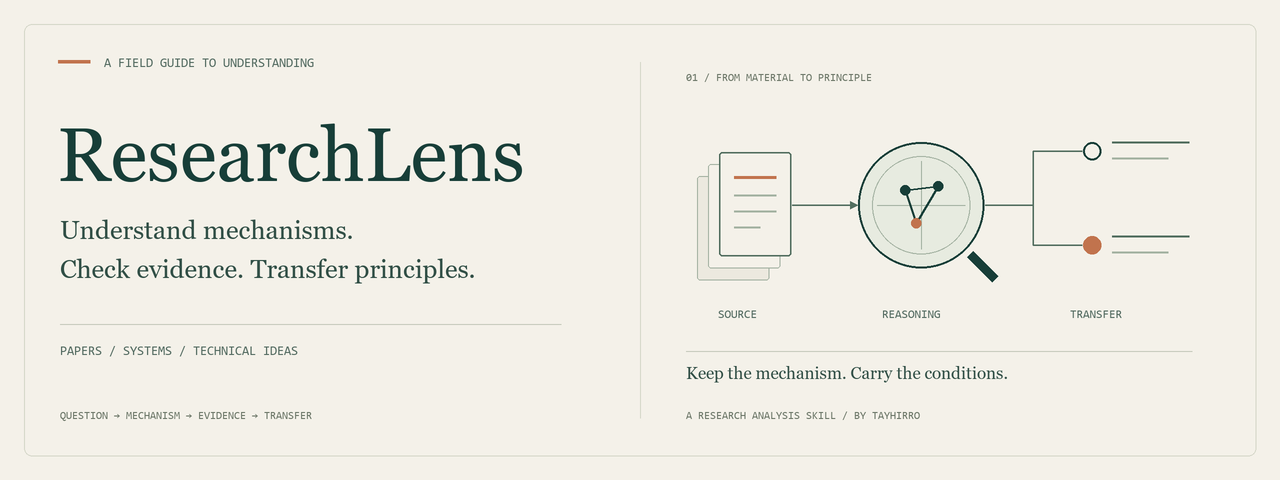
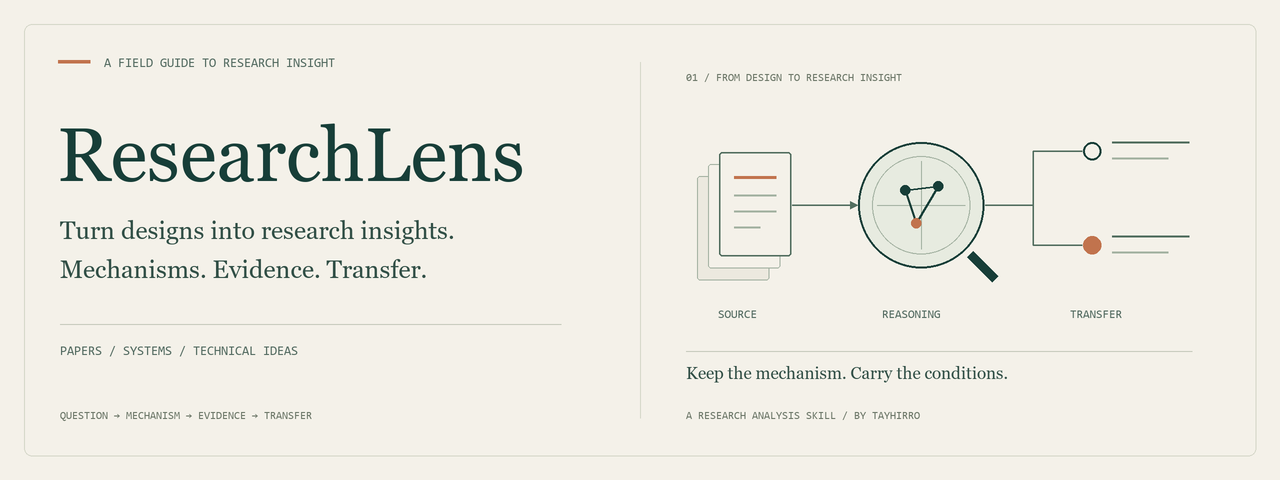
docs: sharpen ResearchLens messaging around design insights

diff --git a/README_EN.md b/README_EN.md
@@ -1,14 +1,14 @@
 <div align="center">
 
-<img src="assets/banner.png" alt="ResearchLens — Understand mechanisms. Check evidence. Transfer principles." width="100%">
+<img src="assets/banner.png" alt="ResearchLens — Turn designs into research insights. Mechanisms. Evidence. Transfer." width="100%">
 
 # ResearchLens
 
-### Understand mechanisms. Check evidence. Transfer principles.
+### Turn designs into research insights.
 
 A research analysis skill for papers, software systems, and technical proposals.
 
-[![Agent Skill](https://img.shields.io/badge/Agent_Skill-explore--skill-173e38?style=flat-square)](SKILL.md)
+[![Agent Skill](https://img.shields.io/badge/Agent_Skill-ResearchLens-173e38?style=flat-square)](SKILL.md)
 [![Analysis](https://img.shields.io/badge/Analysis-Mechanism_·_Evidence_·_Transfer-173e38?style=flat-square)](#what-you-get)
 [![中文](https://img.shields.io/badge/README-中文-c1734d?style=flat-square)](README.md)
 
@@ -18,13 +18,21 @@ A research analysis skill for papers, software systems, and technical proposals.
 
 ---
 
-Give ResearchLens a paper, an open-source system, or a technical proposal, together with a question. It helps explain **why the design works, what supports its claims, and which principles can carry into your own work**.
+When you read a paper or study an open-source system, you want to understand **why its design was chosen, what the contribution changes, and what you could learn for your own research**.
 
-Start with the source's structure, examine important decisions, investigate supporting and conflicting evidence where needed, and turn the findings into reusable research notes.
+ResearchLens examines the assumptions and alternatives behind concrete decisions, traces the causal mechanisms of important contributions, and checks the reasoning against literature, experimental results, and counterexamples. When transfer matters, it extracts reusable principles, required conditions, and questions that still need testing.
 
 > **Question → Mechanism → Evidence → Boundaries → Transfer**
 
-**ResearchLens** is the display name. The installation directory and skill identifier remain `explore-skill`.
+## What makes the approach useful
+
+**Reconstruct the reasons behind a design.** Work from assumptions and constraints, consider alternatives, and examine whether the choice follows from the problem, available data, compute, or engineering conventions.
+
+**Trace each important contribution.** Connect the original difficulty to the change, the mechanism, the evidence, and the failure conditions. Each contribution gets an explanation you can inspect and question.
+
+**Ground connections across fields.** Map a mechanism to relevant concepts, investigate the literature, and distinguish direct support from synthesis. Carry the conditions and limits with each mapping.
+
+**Deepen the questions that matter to your work.** Follow consequential evidence gaps, clarify mechanisms and counterexamples, and retain reusable principles alongside hypotheses that still need verification.
 
 ## What you get
 
@@ -38,7 +46,7 @@ Start with the source's structure, examine important decisions, investigate supp
 
 Final notes follow your questions. Subproblem files retain the sources and investigation history.
 
-## A worked explanation
+## A design you can learn a principle from
 
 Consider this skill's rule that the lead agent decides which follow-up questions to investigate:
 
@@ -49,6 +57,8 @@ Consider this skill's rule that the lead agent decides which follow-up questions
 | **Evidence** | The protocol directly documents this design intention; its effectiveness needs task-level evaluation |
 | **Limits** | Separate context does not automatically provide independent evidence; the lead can misjudge priorities |
 | **Transfer** | The pattern can inform document review or technical selection when subquestions and judgment criteria are clear |
+
+The transferable principle is: **give local investigation room to discover, while keeping further investment tied to the overall goal**. In document review or technical selection, retain this relationship and check the task boundaries and the coordinator's judgment.
 
 This is an editorial explanation of the repository's rules, not a recorded skill run or performance evaluation. See the [source-backed example note](docs/example-analysis.md).
 
@@ -113,7 +123,7 @@ ResearchLens focuses on **understanding existing work, assessing evidence, and t
 | [ARIS](https://github.com/wanshuiyin/Auto-claude-code-research-in-sleep) | Cross-model review and research/experiment improvement loops | Lead-managed peer investigations, selective deepening, and synthesis |
 | [Autoresearch](https://github.com/karpathy/autoresearch) | Experimental feedback and keep/discard optimization | Evidence-calibrated research judgments |
 
-Mechanism analysis, verification, and multiple agents also appear in related tools. The positioning here comes from the combination of question-led analysis, per-unit investigation, object-specific adaptation, and bounded transfer. This is a protocol comparison, not a performance ranking. See the [comparison notes](docs/positioning.md).
+ResearchLens connects **design reasoning, causal mechanisms, academic evidence, and transfer conditions** in an analysis you can trace back to its sources. The findings can inform research directions, technical choices, and questions for later experiments. See the [comparison notes](docs/positioning.md) for the public-protocol comparison; it does not rank performance.
 
 ## How it works
 

diff --git a/README.md b/README.md
@@ -1,14 +1,14 @@
 <div align="center">
 
-<img src="assets/banner.png" alt="ResearchLens — Understand mechanisms. Check evidence. Transfer principles." width="100%">
+<img src="assets/banner.png" alt="ResearchLens — Turn designs into research insights. Mechanisms. Evidence. Transfer." width="100%">
 
 # ResearchLens
 
-### 读懂机制，查证依据，提炼可迁移原理。
+### 把别人的设计，变成自己的研究启发。
 
 面向论文、软件系统与技术方案的深度研究分析 skill。
 
-[![Agent Skill](https://img.shields.io/badge/Agent_Skill-explore--skill-173e38?style=flat-square)](SKILL.md)
+[![Agent Skill](https://img.shields.io/badge/Agent_Skill-ResearchLens-173e38?style=flat-square)](SKILL.md)
 [![Analysis](https://img.shields.io/badge/分析-机制_·_证据_·_迁移-173e38?style=flat-square)](#你会得到什么)
 [![English](https://img.shields.io/badge/README-English-c1734d?style=flat-square)](README_EN.md)
 
@@ -18,15 +18,23 @@
 
 ---
 
-给 AI 一篇论文、一个开源系统或一项技术方案，ResearchLens 会围绕你的问题，解释它**为什么这样设计、结论凭什么成立，以及哪些原理可以迁移到你的工作中**。
+读一篇论文、研究一个开源系统，除了理解它做了什么，你还想知道：**为什么这样设计？创新究竟改变了什么？这套思路能给我的研究带来什么？**
 
-它从原材料的结构理解开始，再按需拆解关键设计、查证外部依据、寻找替代解释和失败边界，最后整理成可复用的研究笔记。
+ResearchLens 从具体设计出发，追问底层假设与替代方案，把核心创新拆成因果机制，再用文献、实验结果与反例校准判断。需要借鉴时，进一步提炼可迁移的原理、成立条件和待验证问题，整理成能继续使用的研究笔记。
 
 > **问题 → 机制 → 证据 → 边界 → 迁移**
 >
-> 把“我大概看懂了”，推进到“我能解释它、判断它，并知道如何借鉴它”。
+> 读懂设计背后的原理，让下一次研究与设计有据可循。
 
-展示名为 **ResearchLens**；安装目录与调用名仍为 `explore-skill`。
+## 特色在哪里
+
+**追问设计为什么这样选。** 从基本假设和约束重新推导：还有哪些方案？当前选择是由问题决定，还是由数据、算力或工程习惯促成？把作者的动机与实际机制放在一起判断。
+
+**逐个拆解核心创新。** 对每项重要创新或设计决策，讲清楚“原有困难 → 具体改动 → 行为如何改变 → 证据支持到哪里 → 何时失效”。你能看到贡献成立的路径，也能找到值得继续追问的环节。
+
+**让跨领域联系有依据。** 把具体机制与其他学科的概念建立对应，查证相关文献，说明哪些关系有直接支持、哪些属于综合推断。每次映射都带上成立条件和限制，方便判断能否借鉴。
+
+**沿关键问题深挖，再带回你的工作。** 根据证据缺口选择下一步调查，逐项查证与你目标相关的机制、反例和迁移条件，保留尚未解决的部分。最后留下可复用原则，以及需要继续验证的假设。
 
 ## 你会得到什么
 
@@ -40,7 +48,7 @@
 
 最终笔记按你的问题组织；各子问题的调研文件保留来源与分析过程。
 
-## 一项设计如何被分析清楚
+## 从一项设计中，带走一条可迁移原则
 
 以本 skill 的“由主 agent 决定后续调研”为例：
 
@@ -52,7 +60,9 @@
 | **边界** | 独立上下文不自动意味着独立证据；主 agent 也可能误判优先级 |
 | **迁移** | 可借鉴到长文审查或技术选型中，前提是能定义清楚的子问题与判断标准 |
 
-这是基于仓库规则整理的**讲解示例**。它用于展示分析形式，未作为 skill 实跑或效果评测。完整来源与推理见[示例笔记](docs/example-analysis.md)。
+你可以带走的原则是：**给局部探索留出发现空间，让后续投入始终受整体目标约束。** 在长文审查或技术选型中，可保留这一组织关系，并检查子任务边界和负责人判断能力。
+
+这是基于仓库规则整理的**讲解示例**，未作为 skill 实跑或效果评测。完整来源与推理见[示例笔记](docs/example-analysis.md)。
 
 ## 快速开始
 
@@ -119,7 +129,7 @@ cp -R explore-skill ~/.codex/skills/explore-skill
 | [ARIS](https://github.com/wanshuiyin/Auto-claude-code-research-in-sleep) | 跨模型互审、实验和研究改进循环 | 主 agent 管理同级子问题查证，按需深化与综合 |
 | [Autoresearch](https://github.com/karpathy/autoresearch) | 用实验指标反馈，保留改进、舍弃失败改动 | 用证据支持程度校准研究判断 |
 
-机制分析、查证和多 agent 已在同类工具中使用。这里的定位来自**问题牵引、逐项机制分析、跨对象适配与有边界的原理迁移**这一组合。对比依据公开协议，未做效果排名；详情见[对比与定位笔记](docs/positioning.md)。
+ResearchLens 将**设计动机、因果机制、学术依据与迁移条件**连成一条可回查的分析链，为选题思考、技术选型和后续实验提供可继续追问的研究材料。完整对比见[对比与定位笔记](docs/positioning.md)；依据公开协议，未做效果排名。
 
 ## 方法如何组织
 

diff --git a/docs/image-prompts.md b/docs/image-prompts.md
@@ -15,8 +15,8 @@
 
 左侧约 48% 为文字区：
 主标题：ResearchLens
-副标题：Understand mechanisms.
-第二行：Check evidence. Transfer principles.
+副标题：Turn designs into research insights.
+第二行：Mechanisms. Evidence. Transfer.
 底部小字：PAPERS / SYSTEMS / TECHNICAL IDEAS
 
 右侧约 45% 为精致概念插图：
@@ -32,8 +32,8 @@
 ```text
 保留这张图的构图、配色、插图和留白，只修正文案：
 ResearchLens
-Understand mechanisms.
-Check evidence. Transfer principles.
+Turn designs into research insights.
+Mechanisms. Evidence. Transfer.
 PAPERS / SYSTEMS / TECHNICAL IDEAS
 保持英文拼写准确，避免增加其他文字。
 ```
@@ -69,8 +69,8 @@ TRANSFER：保留核心关系与条件，将其映射到另一种结构；不是
 
 文字只包含：
 ResearchLens
-Understand mechanisms.
-Check evidence. Transfer principles.
+Turn designs into research insights.
+Mechanisms. Evidence. Transfer.
 
 主标题醒目且优雅，副标题清楚，所有内容位于画面中心 80% 安全区域。右侧或右下角安排概念插图，整体像一本精致的研究方法手册封面。不要伪造数据、logo、合作方、许可证、排名或成果声明。
 ```
